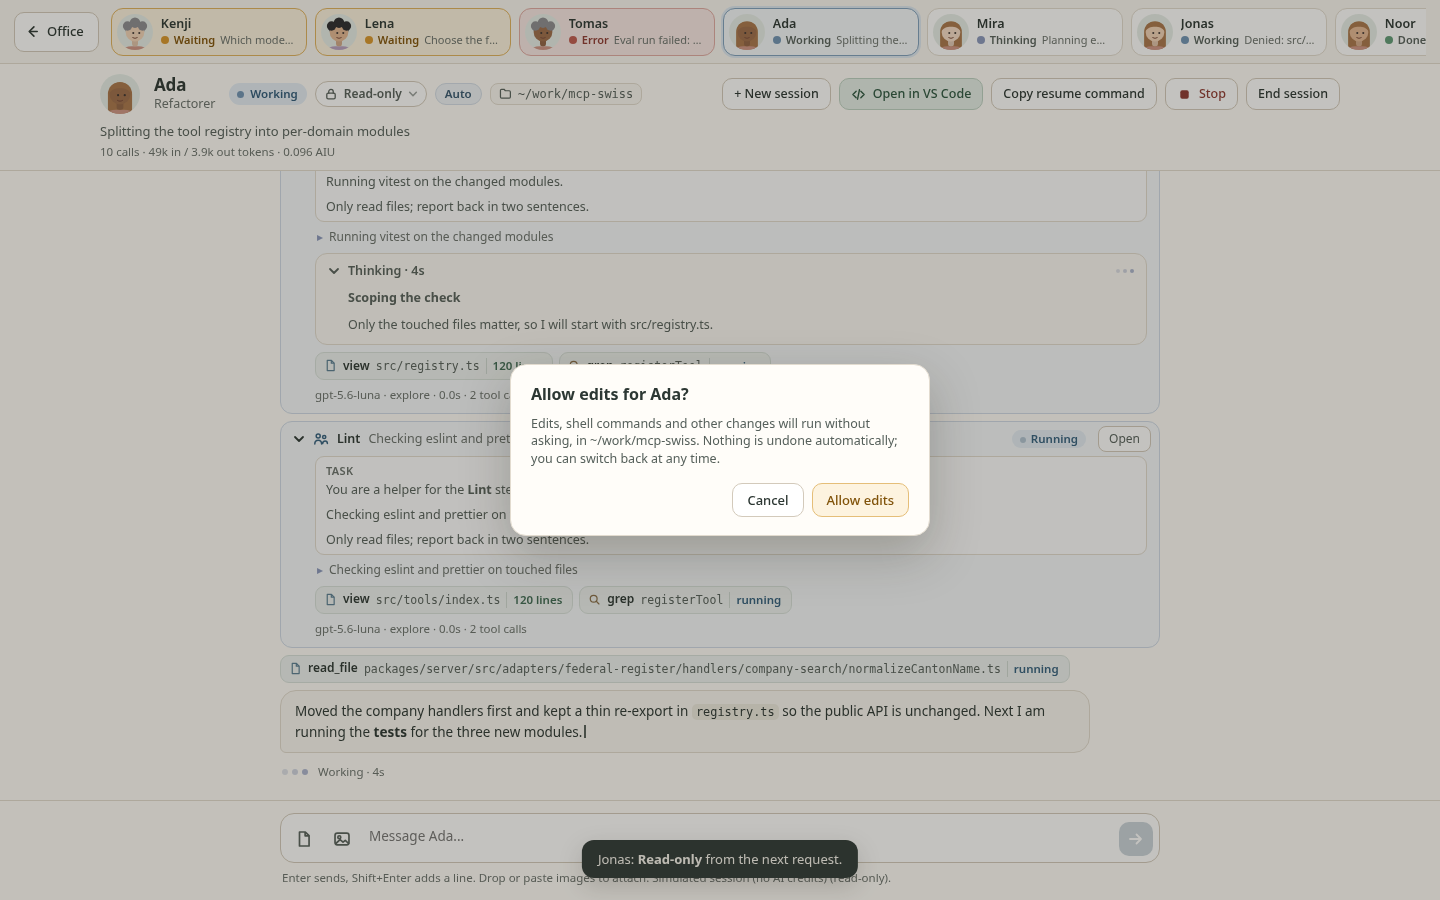
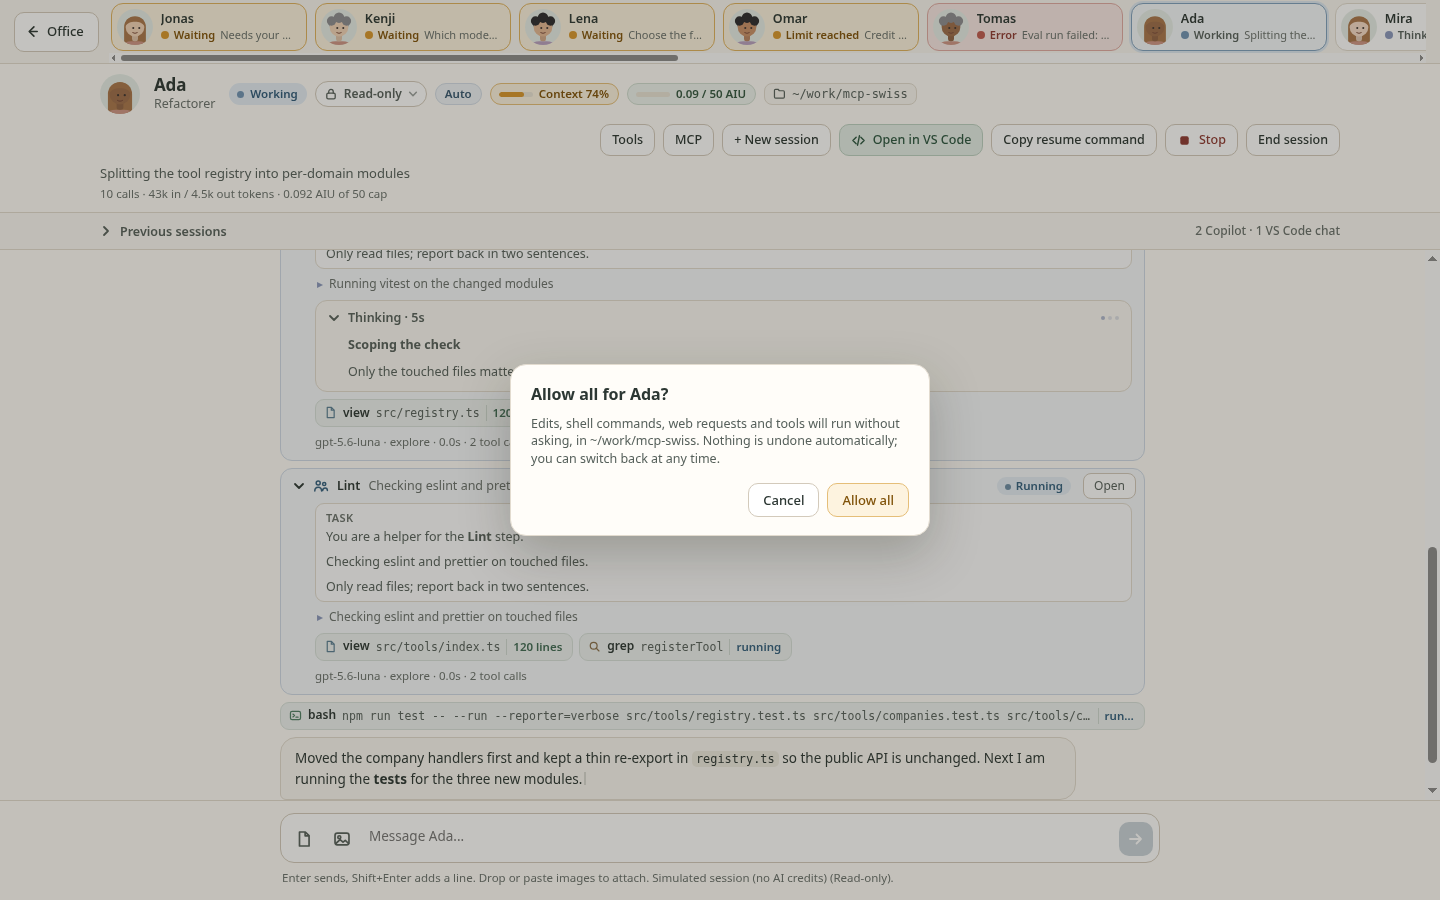
Spec 025 T006: regenerate the mode menu, confirmation and context-menu screenshots with Allow all (shots-mode.js driver)

diff --git a/scripts/shots-mode.js b/scripts/shots-mode.js
@@ -1,0 +1,53 @@
+/*
+ * Screenshots + UI checks for the permission-mode naming (specs 003 and 018): the mode menu, the "Allow all" confirmation and the
+ * right-click menu on an office card. Simulator only (no AI credits, no Copilot login). 1440x900, Linux with xvfb-run:
+ *
+ *   npm run build
+ *   MODE_OUT=docs/screenshots DURBAR_USER_DATA=$(mktemp -d) DURBAR_SIM=15 DURBAR_SIM_FREEZE=1 \
+ *     DURBAR_DRIVER=$PWD/scripts/shots-mode.js xvfb-run -a npx electron . --no-sandbox
+ *
+ * Writes m7-mode-switch.png, m7-mode-confirm.png and m7-mode-context.png (same names as the first set, which still said "Allow edits").
+ * It asserts that "Allow all" is shown and "Allow edits" is not, and exits non-zero (driver failure) on a miss.
+ */
+const path = require('path');
+const assert = require('assert');
+const OUT = process.env.MODE_OUT || '/tmp';
+const W = 1440, H = 900;
+
+module.exports = async (ctx) => {
+  const click = (sel) => ctx.js(`(()=>{const e=document.querySelector(${JSON.stringify(sel)});if(!e)return false;e.click();return true})()`);
+  const text = (sel) => ctx.js(`(document.querySelector(${JSON.stringify(sel)})||{}).innerText||''`);
+  // calm picture: no startup toast over the cards, no focus ring on the menu item
+  const calm = () => ctx.js(`(()=>{if(!document.getElementById('shotCalm')){const s=document.createElement('style');s.id='shotCalm';s.textContent='#toasts{display:none!important}';document.head.appendChild(s);}
+    if(document.activeElement&&document.activeElement!==document.body)document.activeElement.blur();})()`);
+  const shot = async (name) => { await ctx.sleep(450); await calm(); await ctx.shot(path.join(OUT, `m7-mode-${name}.png`)); console.log('[mode] saved', name); };
+  const idOf = (name) => ctx.js(`(()=>{const d=[...document.querySelectorAll('#stage .desk[data-id]')].find(x=>x.querySelector('.name,.nm,h3,b')&&x.innerText.trim().startsWith(${JSON.stringify(name)}));return d?d.dataset.id:null})()`);
+  ctx.win.setContentSize(W, H);
+  await ctx.sleep(2500);
+
+  // 1) chat header menu (Ada, Read-only now)
+  const ada = await idOf('Ada'); assert.ok(ada, 'Ada is on the floor');
+  await click(`#stage [data-id="${ada}"]`); await ctx.sleep(800);
+  await ctx.js(`(()=>{const t=document.querySelector('.prev-toggle[aria-expanded="true"]');if(t)t.click();})()`); await ctx.sleep(300);
+  await click('#modeChip'); await ctx.sleep(400);
+  const menu = await text('#modeMenu');
+  assert.match(menu, /Allow all/); assert.doesNotMatch(menu, /Allow edits/);
+  await shot('switch');
+
+  // 2) the confirmation
+  await click('#modeMenu .mm-allow'); await ctx.sleep(500);
+  const dlg = await text('#modeDlg');
+  assert.match(dlg, /Allow all for Ada\?/); assert.doesNotMatch(dlg, /Allow edits/);
+  await shot('confirm');
+  await ctx.js(`(()=>{const b=[...document.querySelectorAll('#modeDlg .btn')].find(x=>x.textContent==='Cancel');b&&b.click()})()`); await ctx.sleep(300);
+
+  // 3) right-click menu on a card in the office
+  await click('#backBtn'); await ctx.sleep(900);
+  const jonas = await idOf('Jonas'); assert.ok(jonas, 'Jonas is on the floor');
+  await ctx.js(`(()=>{const d=document.querySelector('#stage .desk[data-id="${jonas}"]');const r=d.getBoundingClientRect();d.dispatchEvent(new MouseEvent('contextmenu',{bubbles:true,cancelable:true,clientX:r.left+60,clientY:r.top+50}));})()`);
+  await ctx.sleep(400);
+  const ctxMenu = await text('#modeMenu');
+  assert.match(ctxMenu, /Allow all/); assert.doesNotMatch(ctxMenu, /Allow edits/);
+  await shot('context');
+  assert.ok(!/Allow edits/.test(await text('body')), 'no "Allow edits" anywhere on screen');
+};

diff --git a/specs/025-docs-sync/spec.md b/specs/025-docs-sync/spec.md
@@ -16,7 +16,7 @@
 - **FR-002** `[IMPLEMENTED]` The PR template has a **Docs** section: a *Docs updated* box, a *no docs impact* box with a `Docs: n/a <reason>` line (in an HTML comment, like `Spec-Exempt`), and a screenshots line in Verification.
 - **FR-003** `[IMPLEMENTED]` `test:` A non-blocking **Docs check (warning only)** job in `.github/workflows/spec-kit.yml` runs `.github/scripts/docs-check.sh`. It warns (annotation and step summary) when (a) `src/` changed and none of `README.md`, `CHANGELOG.md`, `docs/` changed, or (b) `package.json` scripts changed and `README.md` did not. Switched off by a `Docs: n/a <reason>` line (reason of 4+ characters, not the template placeholder, not inside a comment) or a `docs-n/a` or `spec-exempt` label. The script always exits 0; the job has `continue-on-error: true`; it is **not** in `.github/ruleset-main.json` required checks. `.github/scripts/test-docs-check.sh` (20 cases, throwaway repos) runs in the same job.
 - **FR-004** `[IMPLEMENTED]` Catch-up audit against `main` after PRs #1, #11-#17: README status block, release status (v0.1.0-alpha.2 draft pre-release, unsigned), permission names (Read-only / Ask first / Allow all), usage totals, roadmap, known limits, Development scripts, links (repo, board), contributors and credits; CHANGELOG *Unreleased* (and the *Allow edits* wording in the alpha.2 entry); CONTRIBUTING, SECURITY, `specs/README.md` and stale task ticks in specs 021 and 023.
-- **FR-005** `[KNOWN GAP]` Screenshots that still show the old *Allow edits* wording and are not linked from the README (`m7-mode-confirm.png`, `m7-mode-context.png`, and the real-session `m3-*`/`m5-*` pictures, which are history) are not regenerated; they need a simulator run. The README now links the new `003-allow-all-menu-*` and `011-usage-totals-*` pictures instead of `m7-mode-switch.png`.
+- **FR-005** `[IMPLEMENTED]` (sim: `scripts/shots-mode.js`) The three screenshots that still showed the old *Allow edits* wording (`m7-mode-switch.png`, `m7-mode-confirm.png`, `m7-mode-context.png`; none linked from the README) were regenerated on the simulator at 1440x900 (the size of the originals) and now show *Allow all*. A pass over every picture in `docs/screenshots/` found no other one that shows the old name. The real-session `m3-*` and `m5-*` pictures are history and show only the top-bar *Read-only* and *Ask first* states, so they stay. The README links the `003-allow-all-menu-*` and `011-usage-totals-*` pictures instead of `m7-mode-switch.png`.
 - **FR-006** The check is advisory. It does not read file contents beyond `git diff` names and the `package.json` diff, uses no network, no tokens, no secrets.
 
 ## Out of scope

diff --git a/CHANGELOG.md b/CHANGELOG.md
@@ -8,6 +8,7 @@ Agent Durbar is an alpha. Builds are unsigned and have only been run by hand on 
 - **Usage totals (spec 011 FR-018..FR-023, PR #17).** An office total (header chip) and a per-folder total (room header and closed door plate) in AIU, summed from the runtime's usage events since the app opened. Not saved across restarts; ended sessions stay counted; shows "credits not reported" instead of 0 when the runtime sends no figure. `npm run test:usagetotals`.
 - **Windows paths in session-grant scopes** are unit-tested (spec 003 FR-031/FR-032, PR #16). Known gap: Windows grant keys are not yet compared case-insensitively (task T028).
 - **Docs and process:** README, CHANGELOG and spec statuses brought in line with `main`; AGENTS.md has a "Keep docs in sync" rule; the PR template has a "Docs updated" box; a non-blocking check warns when `src/` changes without a docs change (spec 025).
+- **Screenshots of the mode menu, confirmation and right-click menu** (`docs/screenshots/m7-mode-switch.png`, `m7-mode-confirm.png`, `m7-mode-context.png`) were regenerated on the simulator and now say *Allow all*; the driver is `scripts/shots-mode.js` (spec 025 FR-005, T006).
 
 ## v0.1.0-alpha.2 (draft pre-release, 2026-10-16)
 

diff --git a/specs/025-docs-sync/tasks.md b/specs/025-docs-sync/tasks.md
@@ -5,5 +5,5 @@
 - [x] T003 `AGENTS.md` "Keep docs in sync", pointers in CLAUDE.md, copilot-instructions, docs/collaboration.md, CONTRIBUTING.md [FR-001]
 - [x] T004 PR template: Docs section, screenshots line [FR-002]
 - [x] T005 `docs-check.sh`, `test-docs-check.sh`, non-blocking `docs-check` job, `docs-n/a` label in `labels.tsv` [FR-003]
-- [ ] T006 Regenerate the screenshots that still show "Allow edits" (`m7-mode-confirm.png`, `m7-mode-context.png`) from the simulator [FR-005]
+- [x] T006 Regenerate the screenshots that still show "Allow edits" (`m7-mode-confirm.png`, `m7-mode-context.png`, and `m7-mode-switch.png`, which the audit also found) from the simulator with `scripts/shots-mode.js` [FR-005]
 - [ ] T007 Review the check after two weeks: keep as a warning, or propose making it required (maintainer decision)
